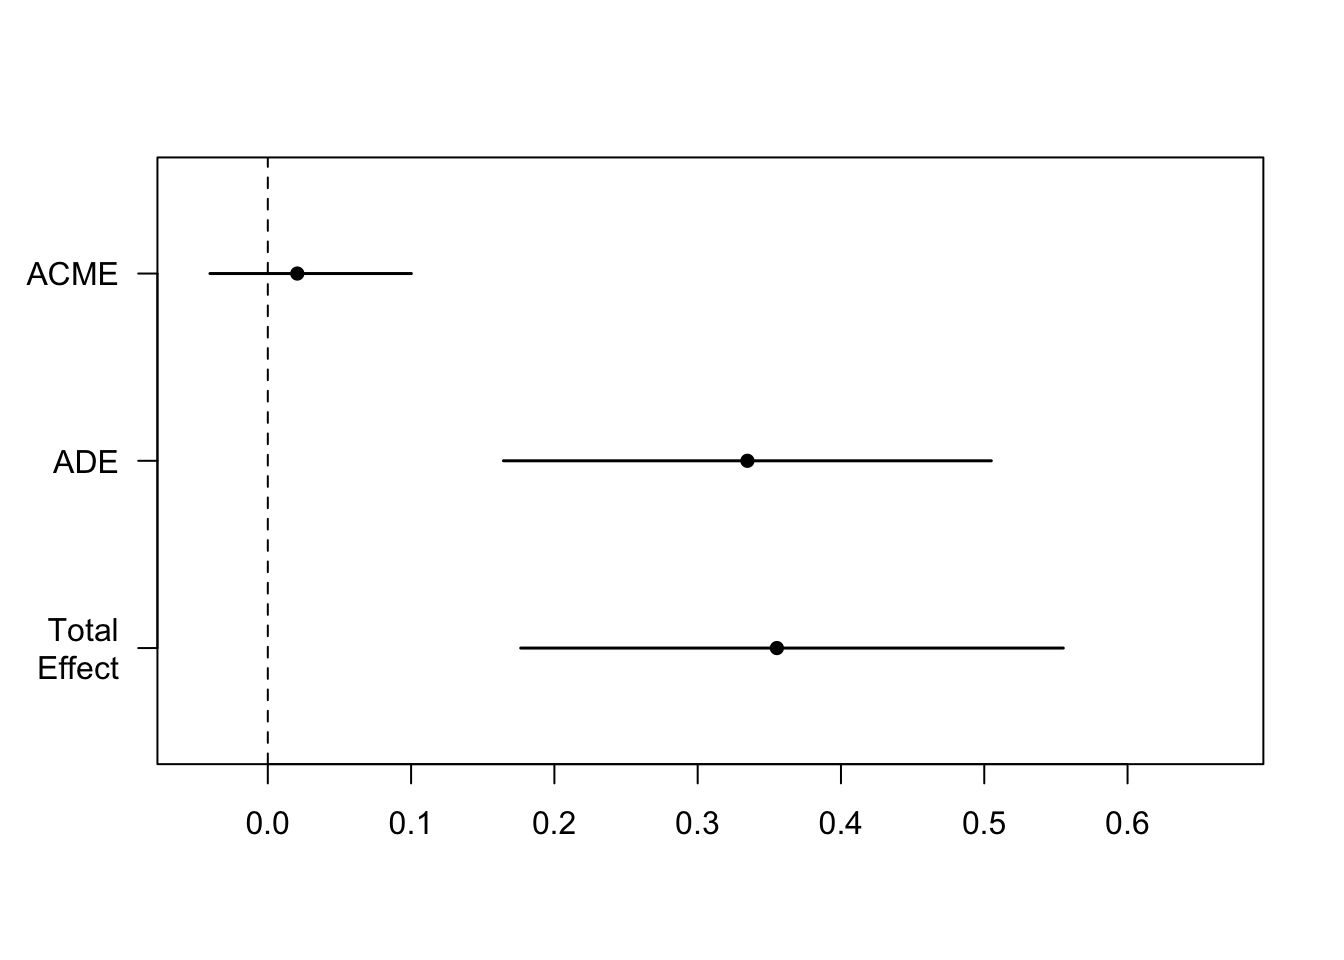
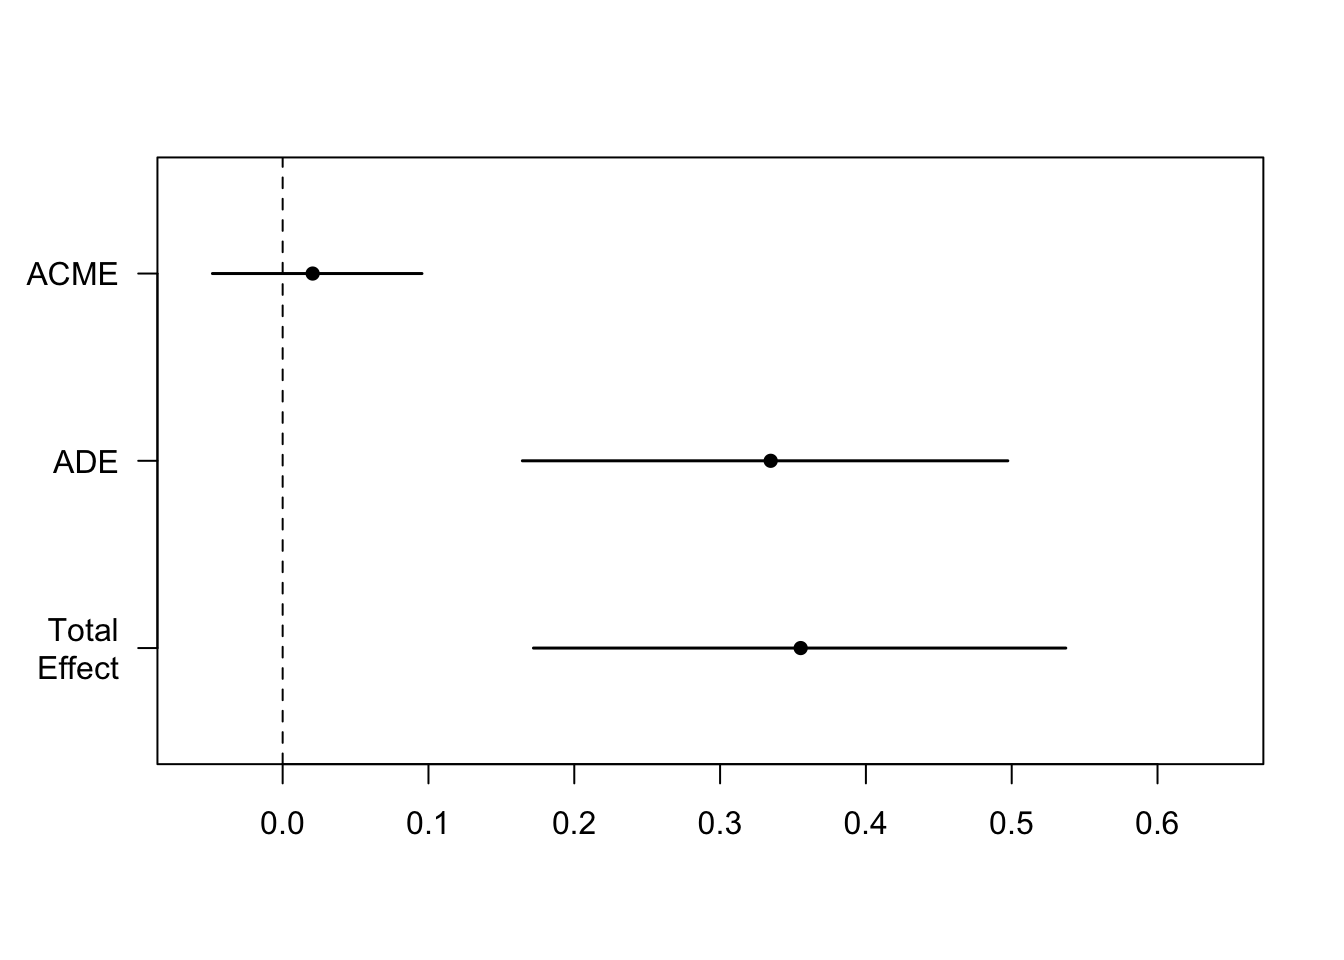
more work on date

diff --git a/docs/posts/JS_FinalProject603.html b/docs/posts/JS_FinalProject603.html
@@ -1584,10 +1584,10 @@ Causal Mediation Analysis
 Nonparametric Bootstrap Confidence Intervals with the Percentile Method
 
                Estimate 95% CI Lower 95% CI Upper p-value    
-ACME             0.0206      -0.0404         0.10    0.52    
+ACME             0.0206      -0.0482         0.10    0.51    
 ADE              0.3347       0.1644         0.50  &lt;2e-16 ***
-Total Effect     0.3553       0.1765         0.56  &lt;2e-16 ***
-Prop. Mediated   0.0579      -0.1608         0.27    0.52    
+Total Effect     0.3553       0.1720         0.54  &lt;2e-16 ***
+Prop. Mediated   0.0579      -0.1846         0.26    0.51    
 ---
 Signif. codes:  0 '***' 0.001 '**' 0.01 '*' 0.05 '.' 0.1 ' ' 1
 
@@ -2016,7 +2016,7 @@ window.document.addEventListener("DOMContentLoaded", function (event) {
 <span id="cb66-2"><a href="#cb66-2" aria-hidden="true" tabindex="-1"></a><span class="an">title:</span><span class="co"> "Maternal Mortality and Women's Political Inclusion: Exploring the impact and pathways of gender equality on maternal health"</span></span>
 <span id="cb66-3"><a href="#cb66-3" aria-hidden="true" tabindex="-1"></a><span class="an">author:</span><span class="co"> "Justine Shakespeare"</span></span>
 <span id="cb66-4"><a href="#cb66-4" aria-hidden="true" tabindex="-1"></a><span class="an">description:</span><span class="co"> "Final project submission for Intro to Quantitative Analysis."</span></span>
-<span id="cb66-5"><a href="#cb66-5" aria-hidden="true" tabindex="-1"></a><span class="an">date:</span><span class="co"> May 18, 2023</span></span>
+<span id="cb66-5"><a href="#cb66-5" aria-hidden="true" tabindex="-1"></a><span class="an">date:</span><span class="co"> "May 18, 2023"</span></span>
 <span id="cb66-6"><a href="#cb66-6" aria-hidden="true" tabindex="-1"></a><span class="an">format:</span></span>
 <span id="cb66-7"><a href="#cb66-7" aria-hidden="true" tabindex="-1"></a><span class="co">  html:</span></span>
 <span id="cb66-8"><a href="#cb66-8" aria-hidden="true" tabindex="-1"></a><span class="co">    toc: true</span></span>

diff --git a/docs/Projects.html b/docs/Projects.html
@@ -259,7 +259,7 @@ Justine Shakespeare
 </a>
 </div>
 </div>
-<div class="quarto-post image-right" data-index="3" data-categories="maternal mortality,women" s="" political="" inclusion,gender="" equality'="" data-listing-date-sort="1684382400000" data-listing-file-modified-sort="1709669516118" data-listing-date-modified-sort="NaN" data-listing-reading-time-sort="45">
+<div class="quarto-post image-right" data-index="3" data-categories="maternal mortality,women" s="" political="" inclusion,gender="" equality'="" data-listing-date-sort="1684382400000" data-listing-file-modified-sort="1709669929383" data-listing-date-modified-sort="NaN" data-listing-reading-time-sort="45">
 <div class="thumbnail">
 <a href="./posts/JS_FinalProject603.html">
 <p class="card-img-top"><img src="posts/JS_FinalProject603_files/figure-html/unnamed-chunk-9-1.png"  class="thumbnail-image card-img"/></p>
